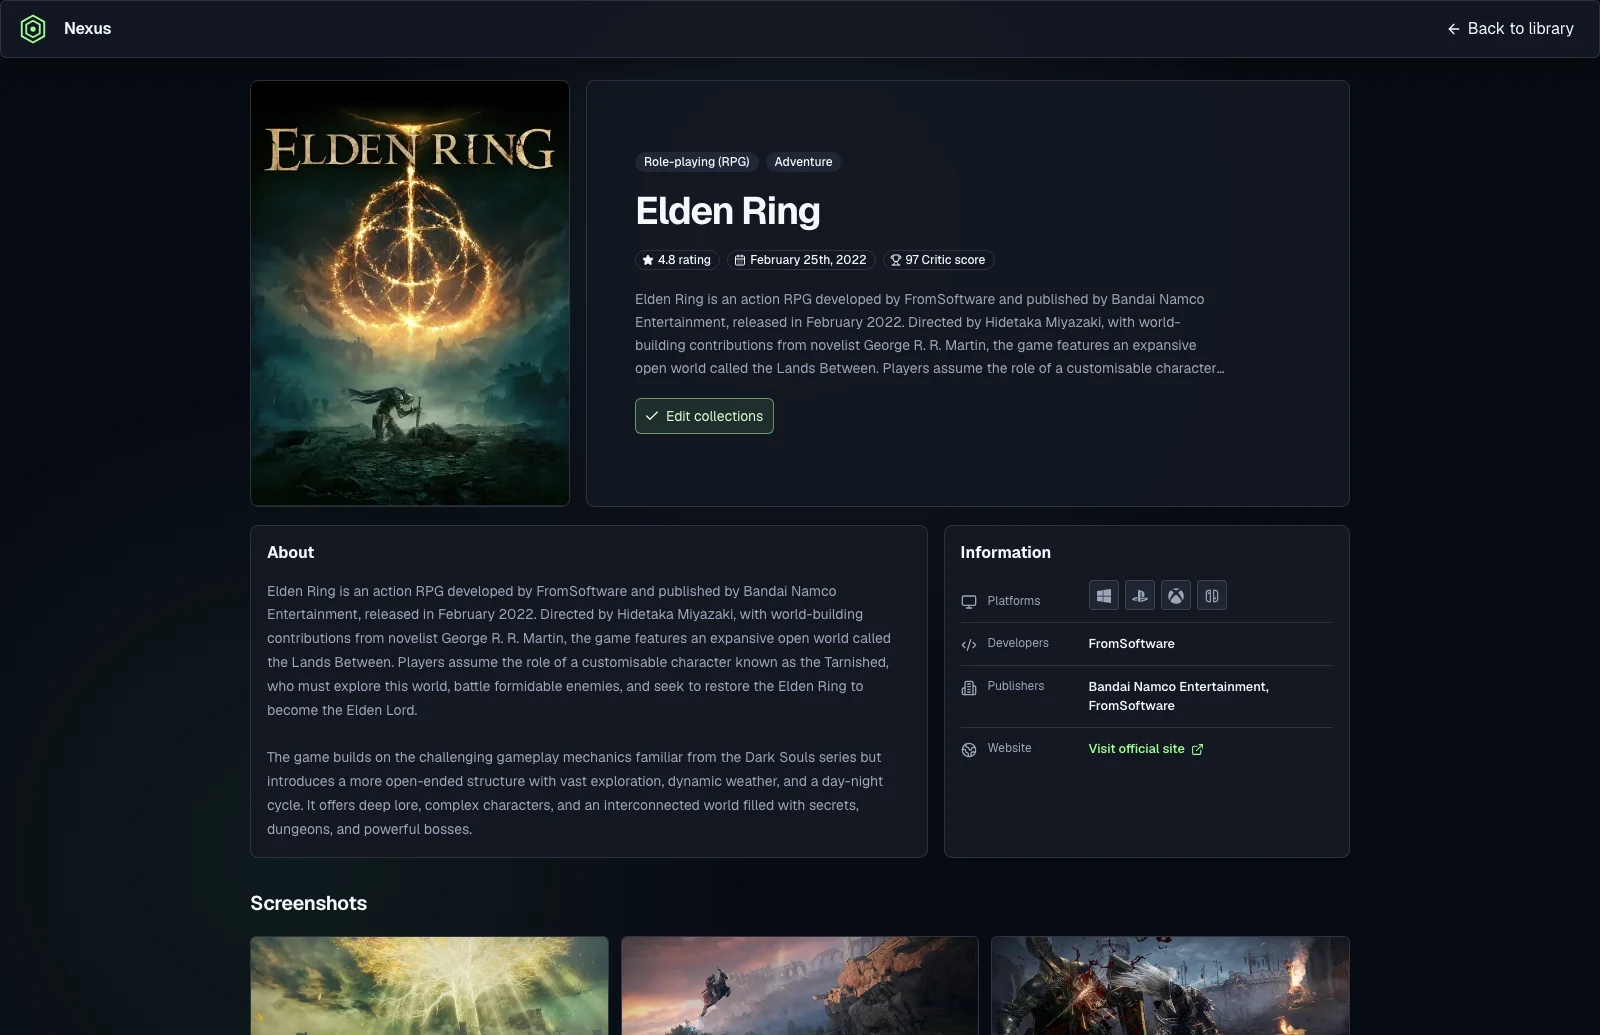
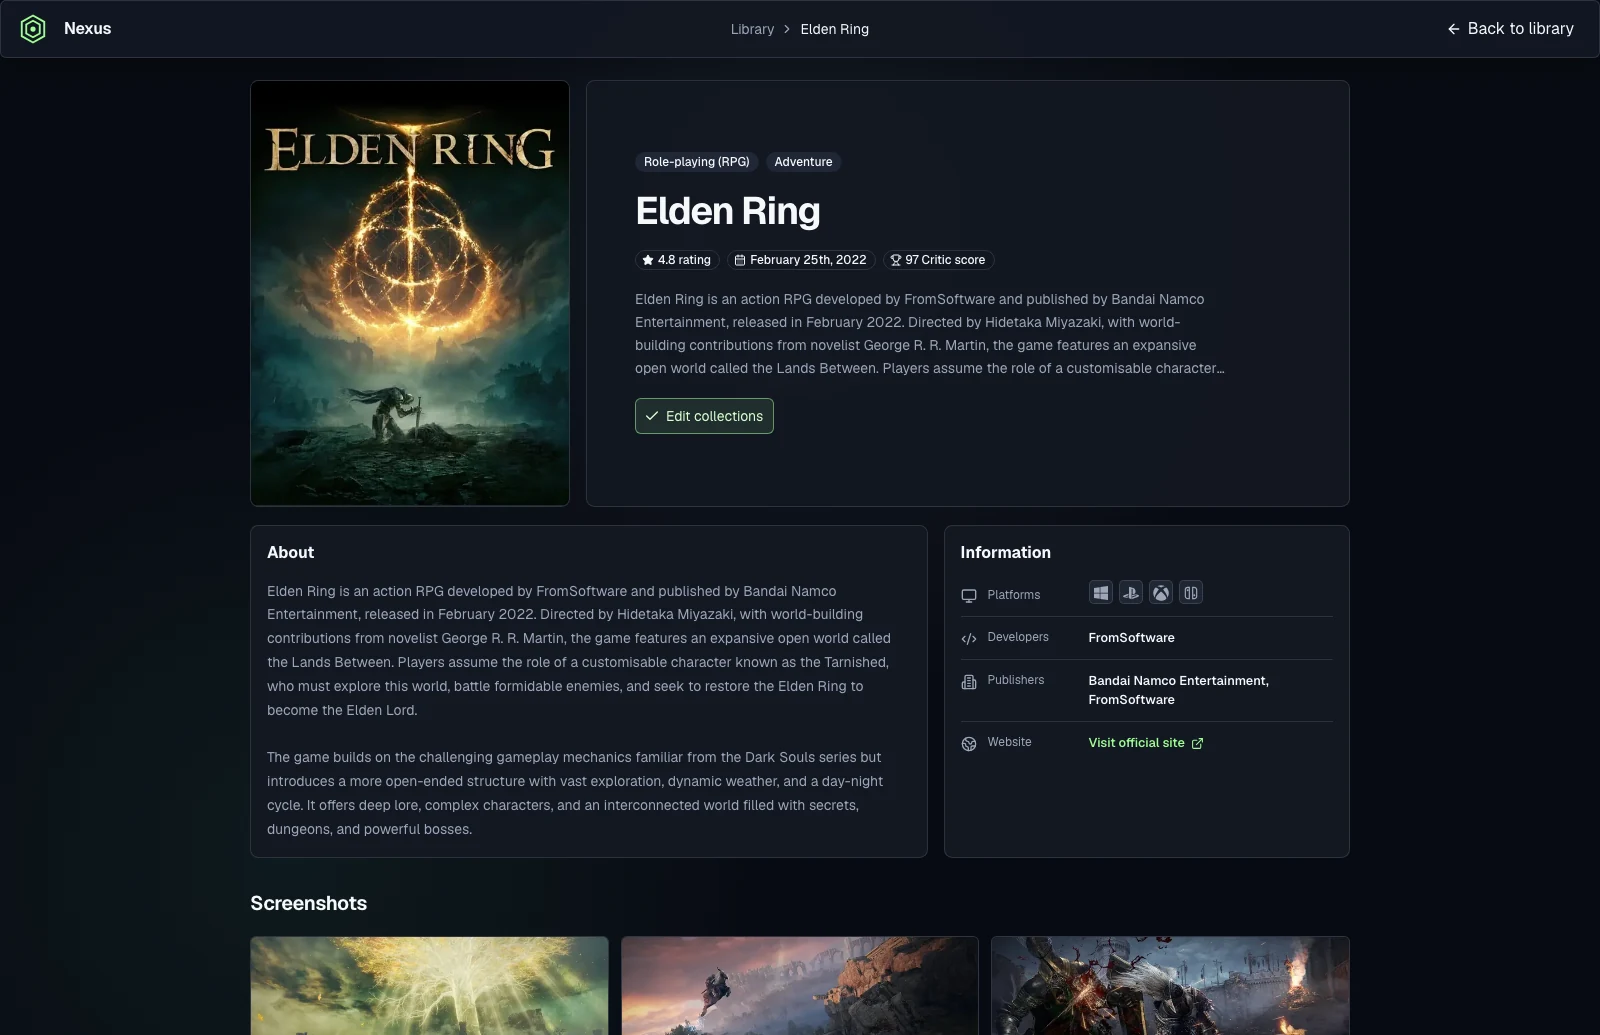
Migrate remaining controls to shadcn
Add a responsive game-details breadcrumb and preserve native library navigation semantics.

Changed region(s): [[0.5938, 0.5565, 0.7812, 0.742], [0.5938, 0.7111, 0.6562, 0.742], [0.5, 0.0, 0.5312, 0.0309]]

diff --git a/app/globals.css b/app/globals.css
@@ -205,6 +205,21 @@ a {
   padding: 0;
 }
 
+.details-breadcrumb {
+  min-width: 0;
+  max-width: 100%;
+  margin: 0 auto;
+}
+
+.details-breadcrumb [data-slot="breadcrumb-list"] {
+  min-width: 0;
+  flex-wrap: nowrap;
+}
+
+.details-breadcrumb__current {
+  min-width: 0;
+}
+
 .library-toolbar {
   display: grid;
   width: 100%;
@@ -859,16 +874,7 @@ a {
 
 .platform-icons__trigger,
 .platform-icons__more {
-  display: inline-grid;
-  width: 24px;
-  height: 24px;
   flex: 0 0 auto;
-  place-items: center;
-  padding: 0;
-  border: 0;
-  border-radius: var(--radius-sm);
-  outline: 0;
-  background: transparent;
   color: currentColor;
 }
 
@@ -876,13 +882,7 @@ a {
 .platform-icons__trigger:focus-visible,
 .platform-icons__more:hover,
 .platform-icons__more:focus-visible {
-  background: var(--muted);
   color: var(--foreground);
-}
-
-.platform-icons__trigger:focus-visible,
-.platform-icons__more:focus-visible {
-  box-shadow: 0 0 0 2px var(--ring);
 }
 
 .platform-icons__trigger svg {
@@ -903,8 +903,6 @@ a {
 }
 
 .platform-icons--details .platform-icons__trigger {
-  width: 30px;
-  height: 30px;
   border: 1px solid var(--border);
   background: var(--muted);
 }
@@ -944,6 +942,20 @@ a {
 .details-page {
   min-height: 100vh;
   margin: 0 auto;
+}
+
+.details-page .site-header {
+  display: grid;
+  grid-template-columns: minmax(0, 1fr) minmax(0, 2fr) minmax(0, 1fr);
+}
+
+.details-page .site-header__center {
+  justify-content: center;
+}
+
+.details-page .site-header__action {
+  min-width: 0;
+  justify-content: flex-end;
 }
 
 .details-shell {
@@ -1244,6 +1256,18 @@ a {
     padding-inline: 4px;
   }
 
+  .details-page .site-header {
+    column-gap: 8px;
+  }
+
+  .details-page .nexus-brand {
+    gap: 8px;
+  }
+
+  .details-page .nexus-brand span {
+    display: none;
+  }
+
   .nexus-shell > .site-header:has(.site-header__center) {
     grid-template-columns: auto minmax(0, 1fr);
     column-gap: 10px;
@@ -1319,6 +1343,12 @@ a {
     grid-template-columns: 1fr;
   }
 
+}
+
+@media (max-width: 560px) {
+  .details-back-label {
+    display: none;
+  }
 }
 
 @media (hover: none) {
@@ -2839,25 +2869,18 @@ html.isSpatialDetails .screenshot {
   padding-right: 3px;
 }
 
-.game-filter-chip button {
-  display: inline-grid;
+.game-filter-chip .game-filter-chip__remove {
   width: 18px;
   height: 18px;
-  padding: 0;
-  place-items: center;
-  border: 0;
   border-radius: 999px;
-  background: transparent;
-  color: inherit;
 }
 
-.game-filter-chip button:hover,
-.game-filter-chip button:focus-visible {
+.game-filter-chip .game-filter-chip__remove:hover,
+.game-filter-chip .game-filter-chip__remove:focus-visible {
   background: color-mix(in srgb, var(--foreground) 12%, transparent);
-  outline: none;
 }
 
-.game-filter-chip button svg {
+.game-filter-chip .game-filter-chip__remove svg {
   width: 12px;
   height: 12px;
 }
@@ -3271,7 +3294,9 @@ html:not(.isSpatialLibrary) .game-filter-chip {
   background: color-mix(in srgb, var(--secondary) 82%, transparent);
 }
 
-html:not(.isSpatialLibrary) .game-filter-chip button:focus-visible {
+html:not(.isSpatialLibrary)
+  .game-filter-chip
+  .game-filter-chip__remove:focus-visible {
   background: color-mix(in srgb, var(--foreground) 13%, transparent);
   box-shadow:
     0 0 0 2px var(--background),

diff --git a/components/ui/breadcrumb.tsx b/components/ui/breadcrumb.tsx
@@ -1,0 +1,122 @@
+import * as React from "react"
+import { mergeProps } from "@base-ui/react/merge-props"
+import { useRender } from "@base-ui/react/use-render"
+
+import { cn } from "@/lib/utils"
+import { ChevronRightIcon, MoreHorizontalIcon } from "lucide-react"
+
+function Breadcrumb({ className, ...props }: React.ComponentProps<"nav">) {
+  return (
+    <nav
+      aria-label="breadcrumb"
+      data-slot="breadcrumb"
+      className={cn(className)}
+      {...props}
+    />
+  )
+}
+
+function BreadcrumbList({ className, ...props }: React.ComponentProps<"ol">) {
+  return (
+    <ol
+      data-slot="breadcrumb-list"
+      className={cn(
+        "flex flex-wrap items-center gap-1.5 text-sm wrap-break-word text-muted-foreground",
+        className
+      )}
+      {...props}
+    />
+  )
+}
+
+function BreadcrumbItem({ className, ...props }: React.ComponentProps<"li">) {
+  return (
+    <li
+      data-slot="breadcrumb-item"
+      className={cn("inline-flex items-center gap-1", className)}
+      {...props}
+    />
+  )
+}
+
+function BreadcrumbLink({
+  className,
+  render,
+  ...props
+}: useRender.ComponentProps<"a">) {
+  return useRender({
+    defaultTagName: "a",
+    props: mergeProps<"a">(
+      {
+        className: cn("transition-colors hover:text-foreground", className),
+      },
+      props
+    ),
+    render,
+    state: {
+      slot: "breadcrumb-link",
+    },
+  })
+}
+
+function BreadcrumbPage({ className, ...props }: React.ComponentProps<"span">) {
+  return (
+    <span
+      data-slot="breadcrumb-page"
+      role="link"
+      aria-disabled="true"
+      aria-current="page"
+      className={cn("font-normal text-foreground", className)}
+      {...props}
+    />
+  )
+}
+
+function BreadcrumbSeparator({
+  children,
+  className,
+  ...props
+}: React.ComponentProps<"li">) {
+  return (
+    <li
+      data-slot="breadcrumb-separator"
+      role="presentation"
+      aria-hidden="true"
+      className={cn("[&>svg]:size-3.5", className)}
+      {...props}
+    >
+      {children ?? <ChevronRightIcon />}
+    </li>
+  )
+}
+
+function BreadcrumbEllipsis({
+  className,
+  ...props
+}: React.ComponentProps<"span">) {
+  return (
+    <span
+      data-slot="breadcrumb-ellipsis"
+      role="presentation"
+      aria-hidden="true"
+      className={cn(
+        "flex size-5 items-center justify-center [&>svg]:size-4",
+        className
+      )}
+      {...props}
+    >
+      <MoreHorizontalIcon />
+      <span className="sr-only">More</span>
+    </span>
+  )
+}
+
+export {
+  Breadcrumb,
+  BreadcrumbList,
+  BreadcrumbItem,
+  BreadcrumbLink,
+  BreadcrumbPage,
+  BreadcrumbSeparator,
+  BreadcrumbEllipsis,
+}

diff --git a/app/components/GameDetails.tsx b/app/components/GameDetails.tsx
@@ -29,6 +29,14 @@ import type {
   GameApiResponse,
 } from "@/app/types/game";
 import { Badge } from "@/components/ui/badge";
+import {
+  Breadcrumb,
+  BreadcrumbItem,
+  BreadcrumbLink,
+  BreadcrumbList,
+  BreadcrumbPage,
+  BreadcrumbSeparator,
+} from "@/components/ui/breadcrumb";
 import { Button } from "@/components/ui/button";
 import {
   Card,
@@ -120,13 +128,37 @@ export function GameDetails({ gameId, returnTo }: GameDetailsProps) {
   const handleBackToLibrary = () => {
     router.push(returnTo);
   };
+  const breadcrumbTitle = isLoading
+    ? "Game Details"
+    : error || !game
+      ? "Game Unavailable"
+      : game.name;
   const header = (
     <SiteHeader
       action={
-        <Button onClick={handleBackToLibrary} variant="ghost">
+        <Button
+          aria-label="Back to library"
+          onClick={handleBackToLibrary}
+          variant="ghost"
+        >
           <ArrowLeft aria-hidden="true" data-icon="inline-start" />
-          Back to library
+          <span className="details-back-label">Back to library</span>
         </Button>
+      }
+      center={
+        <Breadcrumb className="details-breadcrumb">
+          <BreadcrumbList>
+            <BreadcrumbItem>
+              <BreadcrumbLink href={returnTo}>Library</BreadcrumbLink>
+            </BreadcrumbItem>
+            <BreadcrumbSeparator />
+            <BreadcrumbItem className="details-breadcrumb__current">
+              <BreadcrumbPage className="truncate" title={breadcrumbTitle}>
+                {breadcrumbTitle}
+              </BreadcrumbPage>
+            </BreadcrumbItem>
+          </BreadcrumbList>
+        </Breadcrumb>
       }
     />
   );

diff --git a/app/components/PlatformIcons.tsx b/app/components/PlatformIcons.tsx
@@ -27,6 +27,7 @@ import {
   sortPlatformFamiliesForDisplay,
 } from "@/app/lib/platforms";
 import type { GamePlatformFamily } from "@/app/types/game";
+import { Button } from "@/components/ui/button";
 import { cn } from "@/lib/utils";
 import {
   Tooltip,
@@ -97,10 +98,11 @@ function PlatformIcon({ platform }: { platform: GamePlatformFamily }) {
     <Tooltip>
       <TooltipTrigger
         render={
-          <button
+          <Button
             aria-label={platform.name}
             className="platform-icons__trigger"
-            type="button"
+            size="icon-xs"
+            variant="ghost"
           />
         }
       >
@@ -150,12 +152,13 @@ export function PlatformIcons({
         <Tooltip>
           <TooltipTrigger
             render={
-              <button
+              <Button
                 aria-label={`${hiddenPlatforms.length} more platforms: ${hiddenPlatforms
                   .map((platform) => platform.name)
                   .join(", ")}`}
                 className="platform-icons__more"
-                type="button"
+                size="icon-xs"
+                variant="ghost"
               />
             }
           >

diff --git a/app/components/GameFilterControl.tsx b/app/components/GameFilterControl.tsx
@@ -232,8 +232,9 @@ export function GameFilterChips({
           variant="secondary"
         >
           <span>{option.name}</span>
-          <button
+          <Button
             aria-label={`Remove ${option.name} ${option.type.toLocaleLowerCase()} filter`}
+            className="game-filter-chip__remove"
             onClick={() => {
               if (option.type === "Genre") {
                 onToggleGenre(option.slug);
@@ -241,10 +242,11 @@ export function GameFilterChips({
                 onTogglePlatform(option.slug);
               }
             }}
-            type="button"
+            size="icon-xs"
+            variant="ghost"
           >
             <X aria-hidden="true" />
-          </button>
+          </Button>
         </Badge>
       ))}
     </div>
